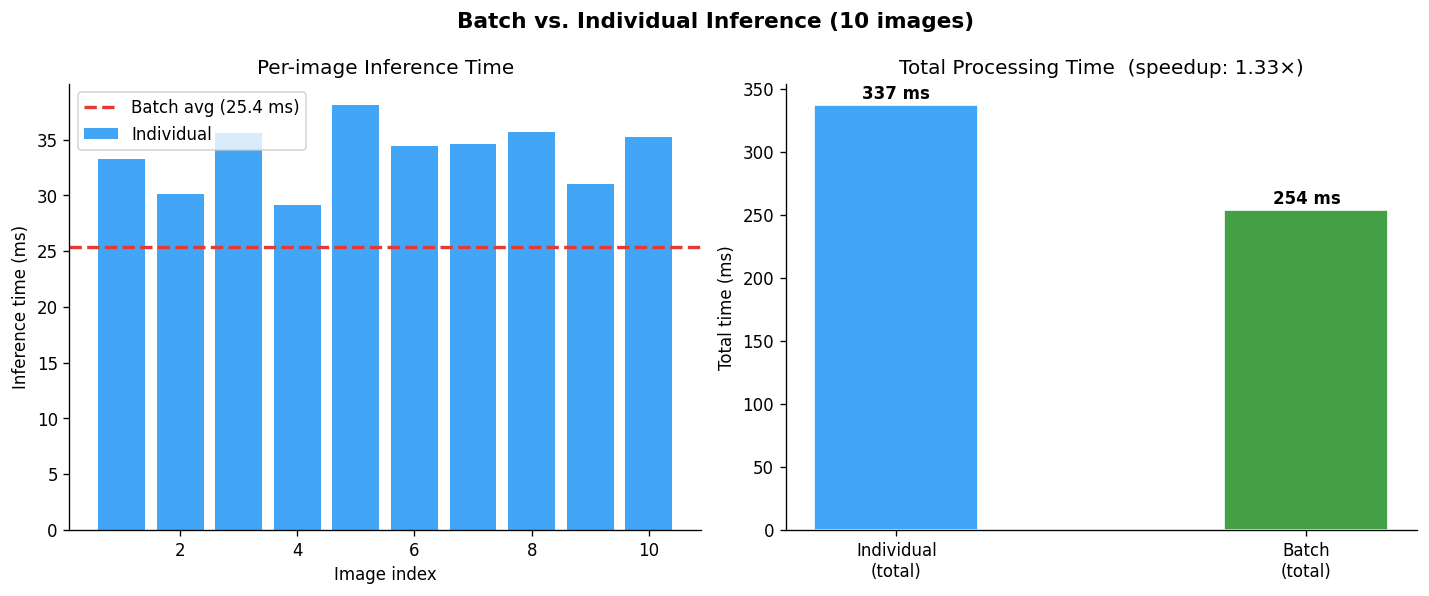
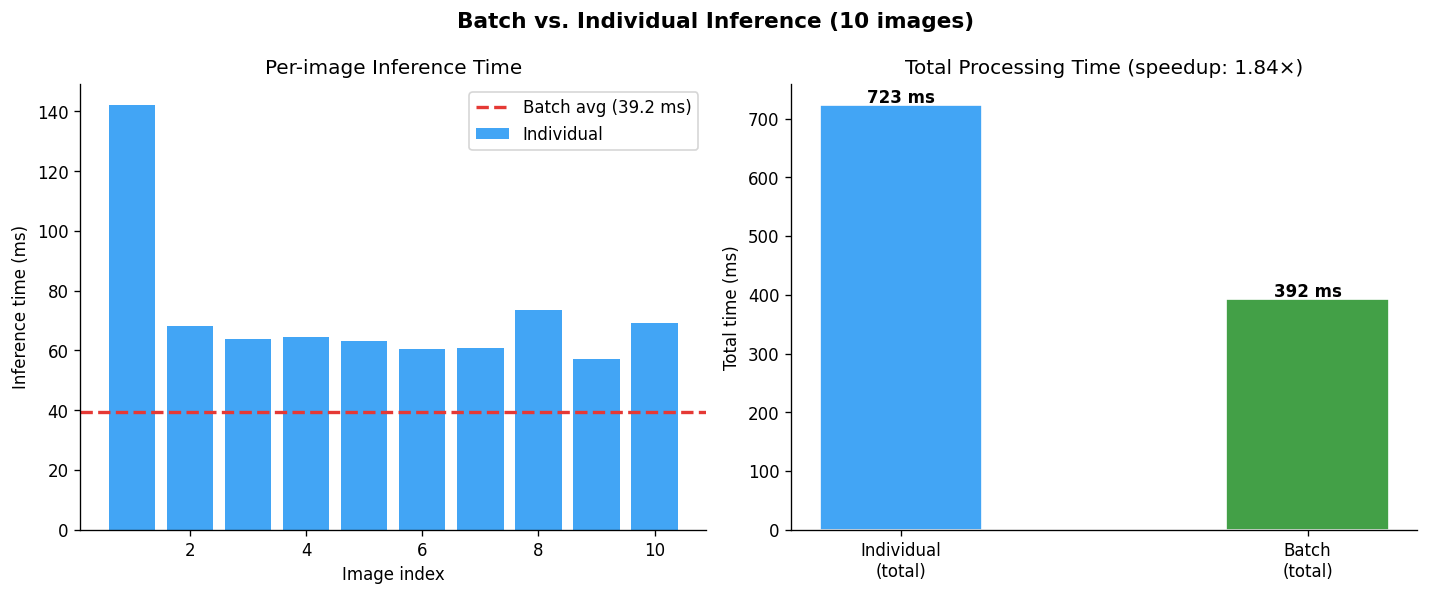
Refactor code structure for improved readability and maintainability

diff --git a/imgclassify/data.py b/imgclassify/data.py
@@ -13,9 +13,9 @@ SAMPLE_DIR = os.path.join(os.path.dirname(__file__), "..", "data", "images")
 IMAGE_URLS = {
     "dog": "https://upload.wikimedia.org/wikipedia/commons/2/26/YellowLabradorLooking_new.jpg",
     "cat": "https://upload.wikimedia.org/wikipedia/commons/4/4d/Cat_November_2010-1a.jpg",
-    "car": "https://upload.wikimedia.org/wikipedia/commons/1/1b/2019_Honda_Civic_sedan.jpg",
-    "airplane": "https://upload.wikimedia.org/wikipedia/commons/8/8b/Airbus_A380_blue_sky.jpg",
-    "banana": "https://upload.wikimedia.org/wikipedia/commons/8/8a/Banana-Whole-and-Split.jpg",
+    "car": "https://images.unsplash.com/photo-1492144534655-ae79c964c9d7?auto=format&fit=crop&w=1200&q=80",
+    "airplane": "https://images.unsplash.com/photo-1436491865332-7a61a109cc05?auto=format&fit=crop&w=1200&q=80",
+    "banana": "https://images.unsplash.com/photo-1571771894821-ce9b6c11b08e?auto=format&fit=crop&w=1200&q=80",
 }
 
 

diff --git a/imgclassify/benchmark.py b/imgclassify/benchmark.py
@@ -7,7 +7,14 @@ import time
 import torch
 from PIL import Image
 
-from .predict import PREPROCESS, load_model
+try:
+    from .predict import PREPROCESS, load_model
+except ImportError:  # pragma: no cover - allows running as a script directly
+    import os
+    import sys
+
+    sys.path.insert(0, os.path.dirname(os.path.dirname(__file__)))
+    from imgclassify.predict import PREPROCESS, load_model
 
 
 def benchmark_batch_vs_individual(image_paths: list[str], model_name: str = "resnet50") -> dict:
